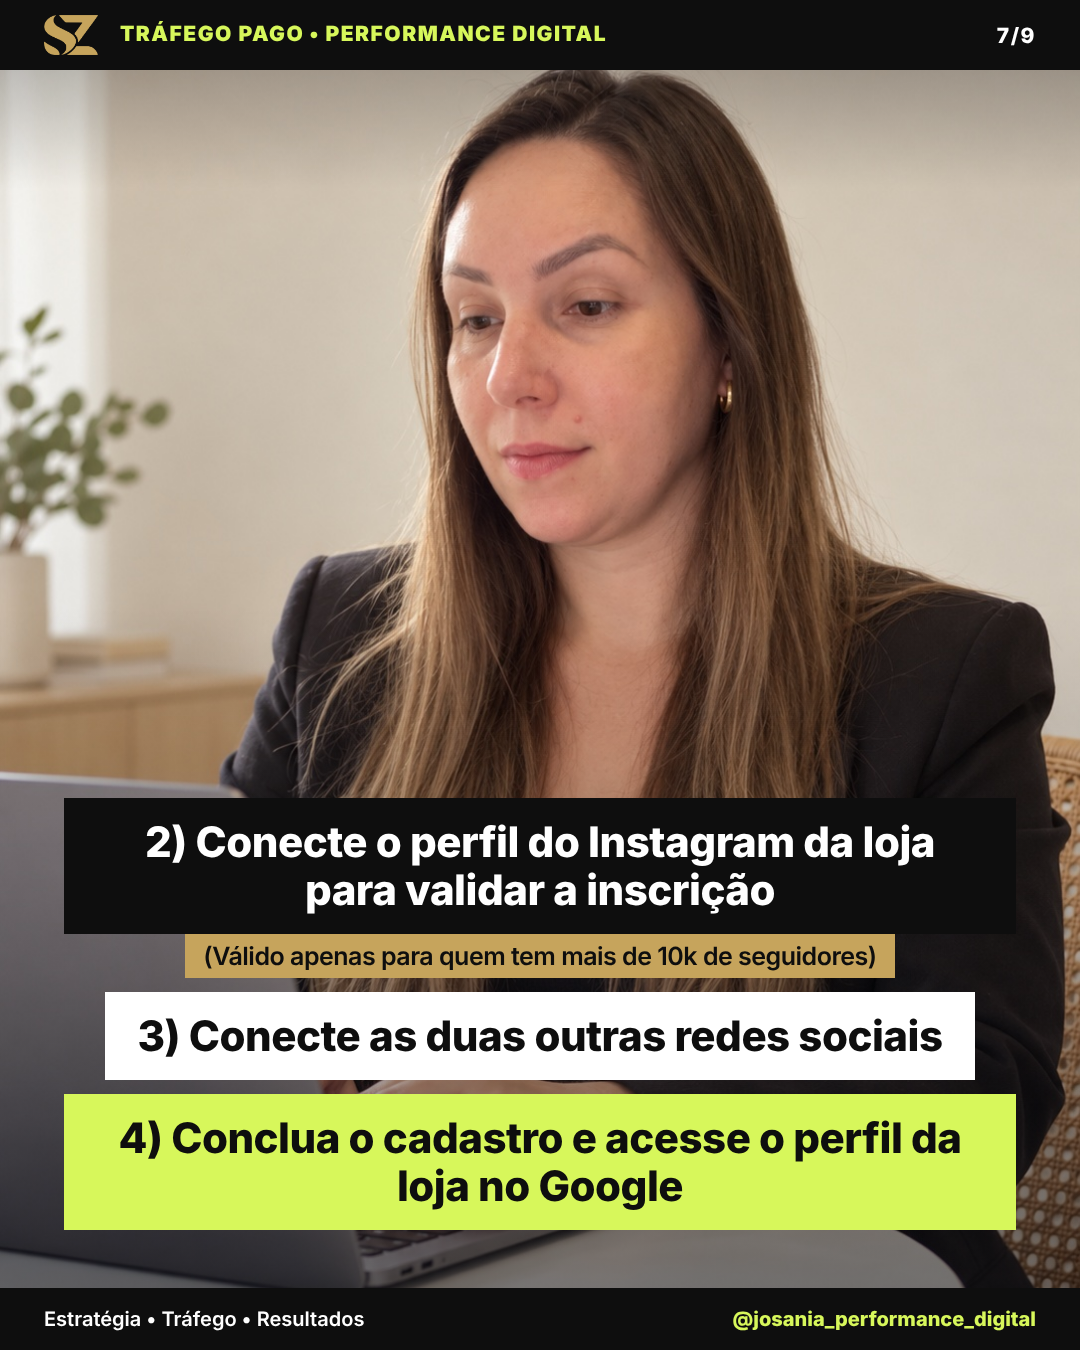
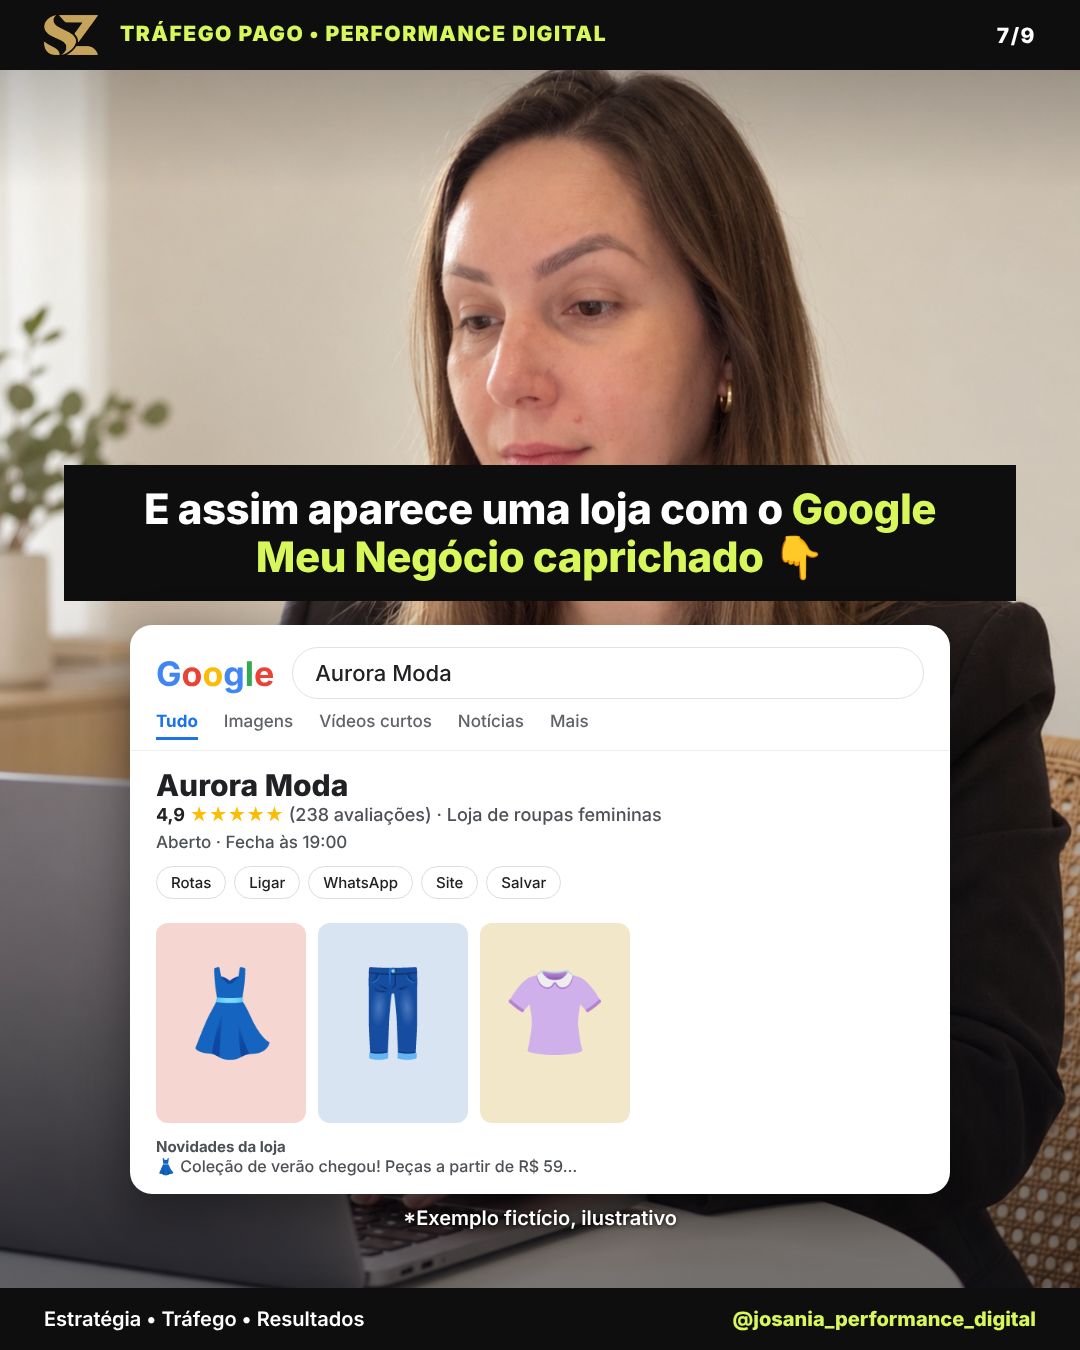
Reescreve o carrossel: Perfil na Pesquisa para criadores e Google Meu Negócio para lojas
Corrige requisitos conforme a página oficial (10 mil seguidores em uma
rede entre Instagram, TikTok, YouTube ou X; 18+; profile.google.com/claim).

Claude-Session: https://claude.ai/code/session_01Cdq3fSAdowyFYcw5UgbxcJ

diff --git a/conteudos/carrossel-perfil-google/gerar.py b/conteudos/carrossel-perfil-google/gerar.py
@@ -91,46 +91,61 @@ def google(nome, corpo, largura=900):
 {corpo}</div>"""
 
 
-# Exemplo fictício: a dona do perfil ainda não tem os 10 mil seguidores exigidos
-LOJA = {"nome": "Aurora Moda", "perfil": "@auroramoda.loja"}
+# Exemplos fictícios: uma criadora de moda (Perfil na Pesquisa) e uma loja (Perfil da Empresa)
+CRIADORA = {"nome": "Bia Estilo", "perfil": "@biaestilo"}
+LOJA = "Aurora Moda"
 PECAS = [("#F6D6D0", "👗", "Coleção nova ▶"), ("#D9E4F2", "👖", "Look do dia"), ("#F3E7C9", "👚", "Promo da semana")]
-NOTA = '<div class="nota">*Loja fictícia, exemplo ilustrativo</div>'
+NOTA = '<div class="nota">*Exemplo fictício, ilustrativo</div>'
+
+
+def miniaturas(legendas=True):
+    return "".join(
+        f'<div class="thumb" style="background:{cor}"><span class="peca">{emoji}</span>{f"<i>{t}</i>" if legendas else ""}</div>'
+        for cor, emoji, t in PECAS
+    )
+
+
+def painel_loja(m, forte):
+    """Mockup do Perfil da Empresa (Google Meu Negócio) da loja, fraco ou caprichado."""
+    if forte:
+        nota, aval, info = "4,9", "(238 avaliações)", "Aberto · Fecha às 19:00"
+        botoes = ["Rotas", "Ligar", "WhatsApp", "Site", "Salvar"]
+        fotos = f'<div class="posts">{miniaturas(False)}</div>'
+        extra = '<div class="src" style="margin-top:14px;font-weight:700">Novidades da loja</div><div class="desc">👗 Coleção de verão chegou! Peças a partir de R$ 59…</div>'
+        estrelas = "★★★★★"
+    else:
+        nota, aval, info = "3,8", "(6 avaliações)", "Horário não informado"
+        botoes = ["Rotas", "Salvar"]
+        fotos = '<div class="thumb" style="background:#e9e9e9;width:470px;height:120px"><span class="peca" style="top:22px;font-size:52px">🏬</span></div>'
+        extra = '<div class="desc" style="margin-top:12px;color:#b3261e">Sem site · Sem telefone · Sem fotos recentes</div>'
+        estrelas = "★★★★☆"
+    chips = "".join(f'<span class="chip">{b}</span>' for b in botoes)
+    corpo = f"""<div class="res"><div style="font:800 30px Inter;color:#202124">{LOJA}</div>
+<div class="desc" style="font-size:18px"><b style="color:#202124">{nota}</b> <span style="color:#fbbc04">{estrelas}</span> {aval} · Loja de roupas femininas</div>
+<div class="desc" style="font-size:17px;margin:4px 0 12px">{info}</div>{chips}<div style="margin-top:14px">{fotos}</div>{extra}</div>"""
+    return google(LOJA, corpo, 820)
 
 
 def slides(m):
-    nome, perfil = LOJA["nome"], LOJA["perfil"]
-    usuario = perfil.lstrip("@")
-    antes = google(nome, f"""
-<div class="res"><div class="src">instagram.com › {usuario}</div><div class="tit">{nome} (@{usuario}) • Fotos e vídeos do Instagram</div>
-<div class="desc">Veja as fotos e vídeos do Instagram de {nome}…</div></div>
-<div class="res"><div class="src">facebook.com › {usuario}</div><div class="tit">{nome} | Facebook</div><div class="desc">Moda feminina, peças novas toda semana…</div></div>""")
-    thumbs = "".join(
-        f'<div class="thumb" style="background:{cor}"><span class="peca">{emoji}</span><i>{t}</i></div>'
-        for cor, emoji, t in PECAS
-    )
-    depois = google(nome, f"""
-<div class="res"><div class="src">Instagram · {perfil}</div><div class="tit">{nome} | Moda feminina</div>
-<div class="desc">Peças novas toda semana, looks e promoções…</div>
-<div class="src" style="margin-top:14px;font-weight:700">Posts mais recentes</div>
-<div class="posts circ">{thumbs}</div></div>""")
+    nome, perfil = CRIADORA["nome"], CRIADORA["perfil"]
     perfil_pg = f"""<div class="mock" style="width:760px">
-<div style="background:{m['cor_fundo']};color:#fff;padding:28px 30px"><div style="font:800 40px Inter">{nome}</div><div style="font-size:18px;opacity:.8">{perfil} · Perfil de criador</div></div>
+<div style="background:{m['cor_fundo']};color:#fff;padding:28px 30px"><div style="font:800 40px Inter">{nome}</div><div style="font-size:18px;opacity:.8">{perfil} · Perfil na Pesquisa</div></div>
 <div style="padding:20px 30px"><span class="chip">+ Seguir no Google</span><span class="chip">Instagram</span><span class="chip">TikTok</span><span class="chip">YouTube</span>
-<div class="src" style="margin:18px 0 6px;font-weight:700">Posts mais recentes</div><div class="posts">{thumbs}</div></div></div>"""
-    link = f"""<div class="mock" style="width:760px"><div style="background:{m['cor_fundo']};color:{m['cor_primaria']};padding:44px 30px;text-align:center;font:800 38px Inter">Sua presença oficial<br>no Google</div>
-<div style="padding:22px 30px;background:#eef3ff"><div style="font:700 24px Inter">Google para Criadores | Perfil na Pesquisa</div>
-<div class="desc" style="font-size:19px;margin-top:6px">Uma nova maneira de criadores, marcas e publishers se destacarem na Pesquisa.</div>
-<div class="src" style="margin-top:10px;font-size:18px">🔗 creators.google</div></div></div>"""
+<div class="src" style="margin:18px 0 6px;font-weight:700">Posts mais recentes</div><div class="posts">{miniaturas()}</div></div></div>"""
+    link = f"""<div class="mock" style="width:760px"><div style="background:{m['cor_fundo']};color:{m['cor_primaria']};padding:40px 30px;text-align:center;font:800 36px Inter">Perfil na Pesquisa<br>Google para Criadores</div>
+<div style="padding:22px 30px;background:#eef3ff"><div style="font:700 22px Inter">Requisitos oficiais</div>
+<div class="desc" style="font-size:19px;margin-top:6px">✔ 10 mil seguidores em UMA rede: Instagram, TikTok, YouTube ou X<br>✔ Ter 18 anos ou mais<br>✔ Seguir as políticas de conteúdo do Google</div>
+<div class="src" style="margin-top:10px;font-size:18px">🔗 profile.google.com/claim</div></div></div>"""
     return [
-        f'<img class="selo canto" src="{m["sz_uri"]}"><div class="box ouro sm">🚨 Alerta de ATUALIZAÇÃO</div><div class="box escuro big">que vai fazer a sua loja <span class="hl">aparecer muito mais</span> no Google!</div>',
-        '<div class="box branco">Agora marcas e lojas podem criar um <span class="hla">perfil de creator</span> no Google!</div><div class="gap"></div><div class="box escuro sm">E ele muda totalmente o que aparece quando alguém pesquisa o nome da sua loja 👀</div>',
-        f'<div class="box escuro sm">Olha o exemplo de uma loja de roupas: esse é o resultado que aparece ANTES 👇</div>{antes}{NOTA}',
-        f'<div class="box escuro sm">E esse é o resultado que aparece DEPOIS que a loja cria o perfil no <span class="hl">Google creator!</span> 👇</div><div class="box lima" style="font-size:34px">✅ Muito mais completo, e com links que levam direto para os conteúdos do Instagram da loja!</div>{depois}{NOTA}',
-        f'<div class="box branco sm">E tem mais, se a cliente clicar em “ver perfil do creator” ela é <span class="hla">direcionada</span> para uma página com <span class="hla">todos os links das redes sociais</span> da loja 👌🔥</div>{perfil_pg}{NOTA}',
-        f'<div class="box escuro sm">E para criar o perfil da sua loja é muito simples.</div><div class="box branco sm">1) Basta você acessar o site:</div><div class="box lima" style="font-size:40px">https://creators.google/pt-BR/profile</div>{link}',
-        '<div class="box escuro sm">2) Conecte o perfil do Instagram da loja para validar a inscrição</div><div class="box ouro xs">(Válido apenas para quem tem mais de 10k de seguidores)</div><div class="gap"></div><div class="box branco sm">3) Conecte as duas outras redes sociais</div><div class="gap"></div><div class="box lima sm">4) Conclua o cadastro e acesse o perfil da loja no Google</div>',
-        '<div class="box escuro sm">5) Agora é só personalizar para deixar todas as informações da loja atualizadas</div><div class="gap"></div><div class="box branco sm">E depois de 24 horas você pesquisa o nome da sua loja no Google para ver ele atualizado!</div>',
-        f'<img class="selo" src="{m["sz_uri"]}"><div class="box branco">E se quiser receber mais conteúdos como esse é só seguir</div><div class="box lima" style="font-size:52px">{m["perfil"]}</div>',
+        f'<img class="selo canto" src="{m["sz_uri"]}"><div class="box ouro sm">🚨 Alerta de ATUALIZAÇÃO</div><div class="box escuro big">O Google lançou o <span class="hl">Perfil na Pesquisa</span> no Brasil!</div>',
+        '<div class="box branco">Criadores com <span class="hla">+10 mil seguidores</span> agora podem ter um perfil oficial no Google</div><div class="gap"></div><div class="box escuro sm">Mas e se você tem uma LOJA? Calma que eu te explico 👀</div>',
+        f'<div class="box escuro sm">Para criadores, aparece um painel com <span class="hl">todas as redes e os posts recentes</span> 👇</div>{perfil_pg}{NOTA}',
+        f'<div class="box escuro sm">Para criar, acesse o site e faça login com a rede que tem os 10 mil seguidores:</div><div class="box lima" style="font-size:40px">profile.google.com/claim</div>{link}',
+        '<div class="box ouro sm">⚠ Atenção, lojista!</div><div class="box escuro">Para empresas, o Google continua mostrando o <span class="hl">Perfil da Empresa</span></div><div class="gap"></div><div class="box branco sm">Ou seja: quem aparece pela sua loja é o <span class="hla">Google Meu Negócio</span> 📍</div>',
+        f'<div class="box escuro sm">E é assim que muita loja aparece quando a cliente pesquisa o nome 👇</div>{painel_loja(m, False)}{NOTA}',
+        f'<div class="box escuro sm">E assim aparece uma loja com o <span class="hl">Google Meu Negócio caprichado</span> 👇</div>{painel_loja(m, True)}{NOTA}',
+        '<div class="box escuro sm">O que deixa o perfil da sua loja forte no Google:</div><div class="box branco sm" style="text-align:left;font-size:38px;line-height:1.45">✅ Fotos reais das peças e da loja<br>✅ Horário, WhatsApp e site certinhos<br>✅ Responder todas as avaliações<br>✅ Postar as novidades toda semana</div>',
+        f'<img class="selo" src="{m["sz_uri"]}"><div class="box branco">Quer o Google Meu Negócio da sua loja assim? Comenta <span class="hla">GOOGLE</span> ou chama no direct</div><div class="box lima" style="font-size:52px">{m["perfil"]}</div>',
     ]
 
 
